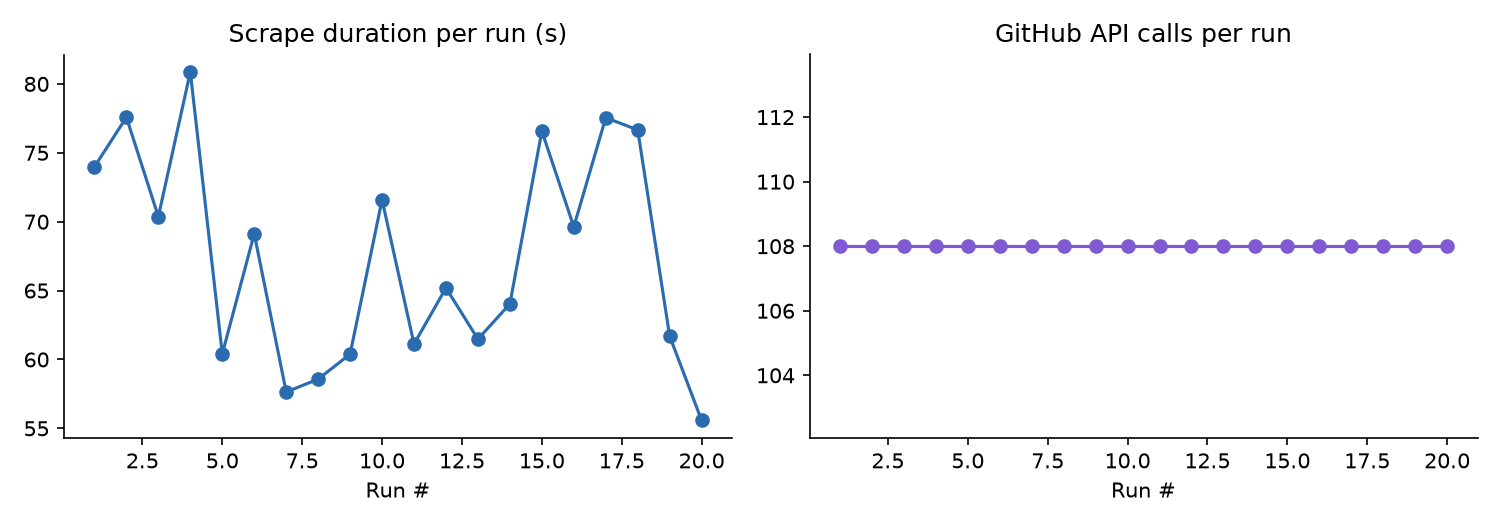
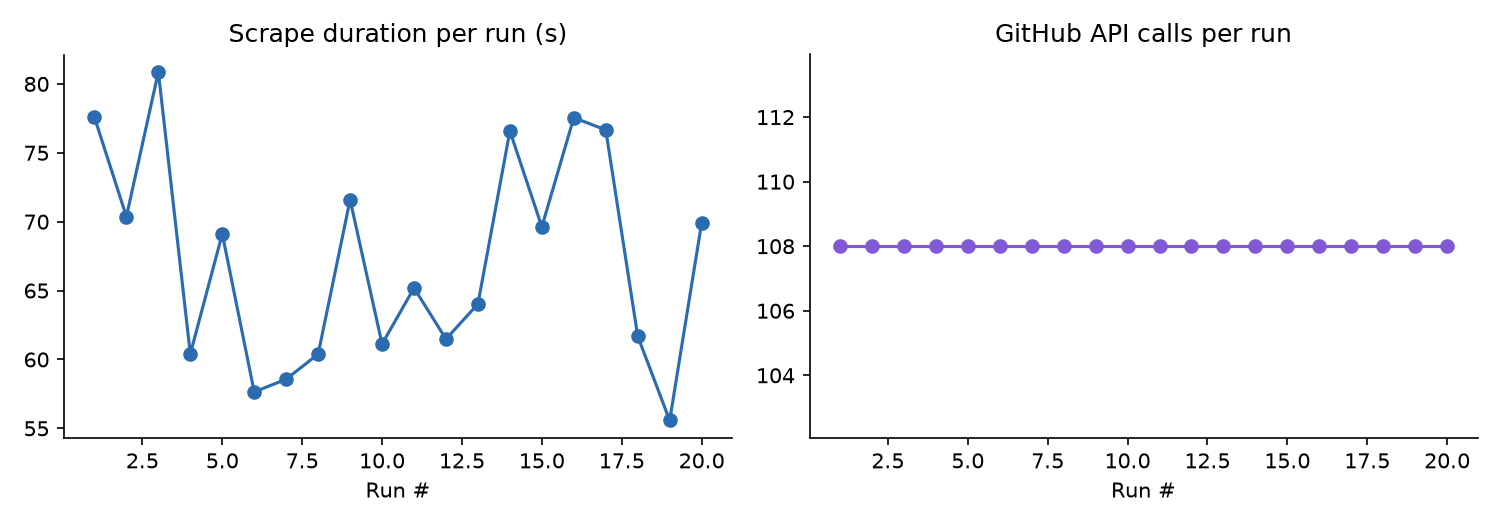
Weekly issue tracker refresh

diff --git a/README.md b/README.md
@@ -81,7 +81,7 @@ See [CONTRIBUTING.md](CONTRIBUTING.md) for the full contributor workflow — inc
 
 <!-- TRACKER:START -->
 
-_Last updated: 2026-08-05 21:34 UTC_
+_Last updated: 2026-08-05 22:38 UTC_
 
 _Tracking **18** upstream repos, **381** relevant open issues._
 
@@ -289,7 +289,7 @@ _Tracking **18** upstream repos, **381** relevant open issues._
 
 <!-- METRICS:START -->
 
-_Last run: 2026-08-05 21:33 UTC, took **55.6s**, **108** GitHub API calls, **4892/5000** rate limit remaining._
+_Last run: 2026-08-05 22:37 UTC, took **69.9s**, **108** GitHub API calls, **4892/5000** rate limit remaining._
 
 ![Scrape metrics trend](assets/metrics_trend.png)
 
